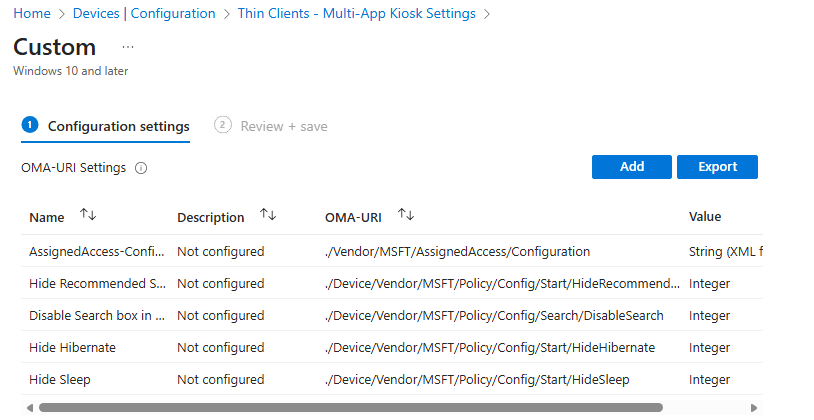
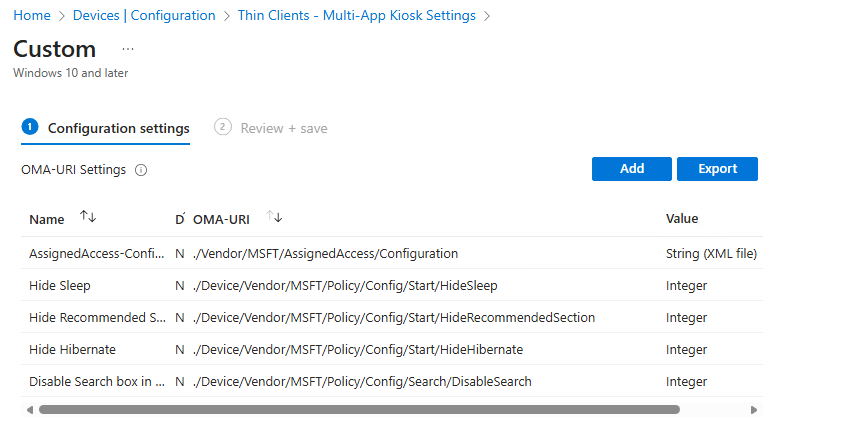
updated links

diff --git a/source/WindowsApp/README.md b/source/WindowsApp/README.md
@@ -314,9 +314,9 @@ You can utilize a custom detection script in Intune or use a Registry detection 
 
 1. Create a custom configuration profile and specify the **OMA-URI** as './Vendor/MSFT/AssignedAccess/ShellLauncher' with the **Data type** as 'string (XML file)'. Then select the appropriate ShellLauncher XML file from the 'source\AssignedAccess\ShellLauncher' directory. Deploy to devices. [^6]
 
-**Figure 6:** Intune Shell Launcher configuration
+   **Figure 6:** Intune Shell Launcher configuration
 
-![Intune Shell Launcher Profile](../../docs/media/OMA-URI-ShellLauncher.png)
+   ![Intune Shell Launcher Profile](../../docs/media/OMA-URI-ShellLauncher.png)
 
 2. Disable Task Manager in the lock screen by creating a new Settings Catalog profile and setting **Administrative Templates | System > Ctrl+Alt+Del Options | Remove Task Manager (User)** to 'Enabled'. Deploy to Users and use a kiosk devices device filter.
 
@@ -325,9 +325,9 @@ You can utilize a custom detection script in Intune or use a Registry detection 
 1. Create a custom configuration profile and name it appropriately.
 2. **Multi-App Configuration:** Add a new OMA-URI Setting and specify the **OMA-URI** as './Vendor/MSFT/AssignedAccess/Configuration' with the **Data type** as 'string (XML file)'. Then select the appropriate MultiApp XML file from the 'source\AssignedAccess\MultiApp' directory. [^7]
 
-  **Figure 7:** Intune Multi-App Kiosk configuration
+   **Figure 7:** Intune Multi-App Kiosk configuration
 
-  ![Intune Restricted User Experience Kiosk Profile](../../docs/media/OMA-URI-MultiApp.png)
+   ![Intune Restricted User Experience Kiosk Profile](../../docs/media/OMA-URI-MultiApp.png)
 
 1. **Hide the Recommended Section of the Start Menu:** Add a new row and specify the **OMA-URI** as './Vendor/MSFT/Policy/Config/Start/HideRecommendedSection' with the **Data type** as 'integer'. Set the value to 1.
 2. **Disable Search box in Start Menu:** Add a new row and specify **OMA-URI** as './Device/Vendor/MSFT/Policy/Config/Search' with the **Data type** as 'integer'. Set the value to 1.
@@ -342,17 +342,17 @@ You can utilize a custom detection script in Intune or use a Registry detection 
 
 6. If you deployed a Multi-App Configuration with Settings and you wish to restrict the Settings and Control Panel to only certain pages, create a new Settings Catalog profile and select the settings as shown in the figure below.
 
-  **Figure 9:** Intune Restrict Settings and Control Panel
+   **Figure 9:** Intune Restrict Settings and Control Panel
 
-  ![Intune Restrict Settings and Control Panel](../../docs/media/Intune-RestrictSettingsAndControlPanel.png)
+   ![Intune Restrict Settings and Control Panel](../../docs/media/Intune-RestrictSettingsAndControlPanel.png)
 
 ##### Common Settings
 
 1. If desired, create a Shared multi-user device configuration profile and select the appropriate settings based on your desired configuration. The figure below shows all items configured.
 
-  **Figure 10:** Intune Shared Multi-User Device Configuration
+   **Figure 10:** Intune Shared Multi-User Device Configuration
 
-  ![Intune Shared PC Profile](../../docs/media/Intune-SharedPC.png)
+   ![Intune Shared PC Profile](../../docs/media/Intune-SharedPC.png)
 
 2. Disable Windows Spotlight by creating a new Settings Catalog profile and setting **Experience | Allow Windows Spotlight (User)** to 'Block'. Deploy to Users and limit it to Kiosk Devices using a device filter.
 3. If you did not deploy the Shared Multi-User device configuration profile, then to disable the First Logon animation, create a Settings Catalog profile and set **Windows Logon | Enable First Logon Animation** to 'Disabled'. Deploy to Devices.